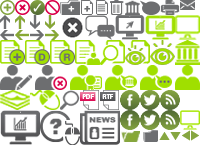
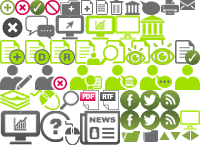
browser fixes

Changed region(s): [[0.0, 0.0828, 1.0, 0.469]]

diff --git a/app/assets/stylesheets/buttons.css b/app/assets/stylesheets/buttons.css
@@ -170,32 +170,18 @@ a .icon {
 .email.icon {
 	background-position: -180px 0; width: 15px; height: 10px; }
 /* second row */
-.arrow-up.icon {
-	background-position: 0px -15px; width: 10px; height: 15px; }
-.arrow-up.icon:hover, .arrow-up.icon:focus, .arrow-up.icon:active {
-	background-position: -25px -15px; }
-.arrow-right.icon {
-	background-position: -15px -15px; width: 15px; height: 10px; }
-.arrow-right.icon:hover, .arrow-right.icon:focus, .arrow-right.icon:active {
-	background-position: -40px -15px; }
-.arrow-down.icon {
-	background-position: -15px -25px; width: 10px; height: 15px; }
-.arrow-down.icon:hover, .arrow-down.icon:focus, .arrow-down.icon:active {
-	background-position: -40px -25px; }
-.arrow-left.icon {
-	background-position: 0px -30px; width: 15px; height: 10px; }
-.arrow-left.icon:hover, .arrow-left.icon:focus, .arrow-left.icon:active {
-	background-position: -25px -030px; }
 .close.icon {
-	background-position: -50px -15px; width: 25px; height: 25px; }
+	background-position: 0px -15px; width: 25px; height: 25px; }
 .institution-contact.icon {
-	background-position: -85px -15px; width: 30px; height: 25px; }
+	background-position: -25px -15px; width: 30px; height: 25px; }
 .institution-domain.icon {
-	background-position: -115px -15px; width: 30px; height: 25px; }
+	background-position: -55px -15px; width: 30px; height: 25px; }
 .public-dmps.icon {
-	background-position: -145px -15px; width: 30px; height: 25px; top: 8px; }
+	background-position: -85px -15px; width: 30px; height: 25px; top: 8px; }
 .login.icon {
-	background-position: -175px -15px; width: 25px; height: 25px; }
+	background-position: -115px -15px; width: 25px; height: 25px; }
+.institution-profile.icon {
+	background-position: -140px -40px; width: 25px; height: 25px; }
 /* third row */
 .new-template.icon {
 	background-position: 0px -40px; width: 25px; height: 25px; }
@@ -211,7 +197,7 @@ a .icon {
 	background-position: -125px -40px; width: 25px; height: 25px; }
 .review.icon {
 	background-position: -150px -40px; width: 25px; height: 25px; }
-.institution-profile.icon {
+.approve-template.icon {
 	background-position: -175px -40px; width: 25px; height: 25px; }
 /* fourth row */
 .edit-user.icon {

diff --git a/app/assets/stylesheets/static_pages.css b/app/assets/stylesheets/static_pages.css
@@ -1,12 +1,3 @@
-/* Static Pages */
-.static-page {
-	margin: 20px 35px; }
-.static-page ul, .static-page ol {
-	margin-top: 20px;
-	margin-bottom: 20px; }
-.static-page ol ul > li {
-	list-style: disc; }
-
 /* Homepage Banner */
 .banner.row-fluid {
 	background: url(header_bg.jpg) no-repeat 0 -117px transparent;
@@ -102,11 +93,21 @@
 .buckets a.btn {
 	position: absolute;
 	bottom: 15px; }
+	
+/* Static Pages */
+.static-page {
+	margin: 20px 35px; }
+.static-page ul, .static-page ol {
+	margin-top: 20px;
+	margin-bottom: 20px; }
+.static-page ol ul > li {
+	list-style: disc; }
 
 /* Video */
 .embedded-video {
 	width: 800px;
 	margin: 50px 77px; }
-/*Contact */
+	
+/* Contact */
 .contact .pull-right {
 	margin-right: 85px; }

diff --git a/app/assets/stylesheets/forms.css b/app/assets/stylesheets/forms.css
@@ -149,10 +149,10 @@ input[type=text].filled, input[type=password].filled, input[type=email].filled, 
 
 /* Alerts */	
 .alert {
-	border-radius: 0;
+	border-radius: 0 !important;
 	-moz-border-radius: 0;
 	-webkit-border-radius: 0;
-	margin: 0;
+	margin: 0 !important;
 	padding: 8px 10px 5px; }
 .alert p {
 	font-size: 1.167em;

diff --git a/app/assets/stylesheets/ui.css b/app/assets/stylesheets/ui.css
@@ -87,8 +87,7 @@ ul.nav-tabs li.active > a:hover, .tabs ul.nav-tabs li.active a:focus {
 	margin-right: 10px;
 	padding-right: 10px; }
 .dmptool-page > .span6 h2 {
-	margin-top: 0;
-}
+	margin-top: 0; }
 .dmptool-page p {
 	font-size: 1.167; }
 
